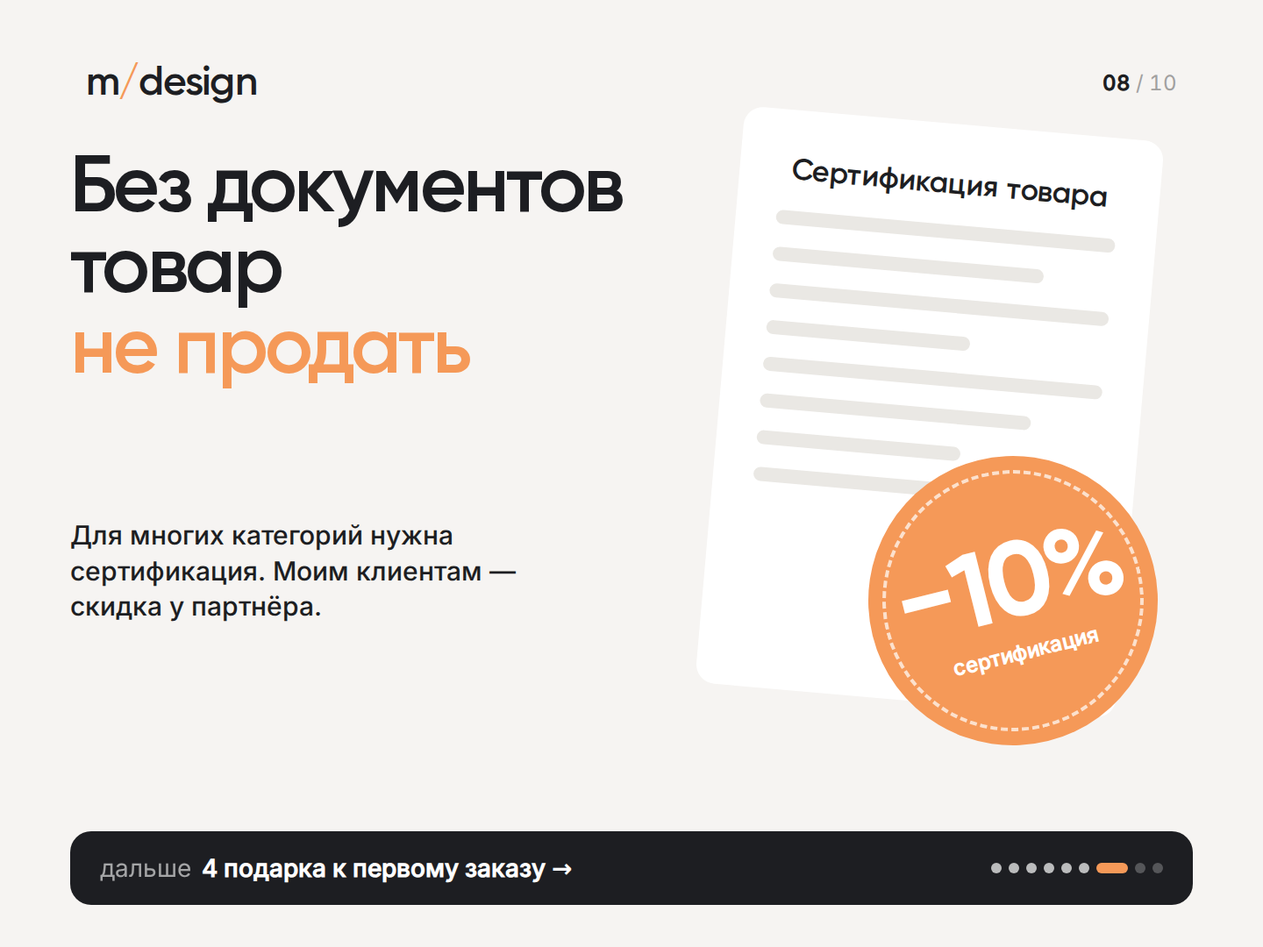
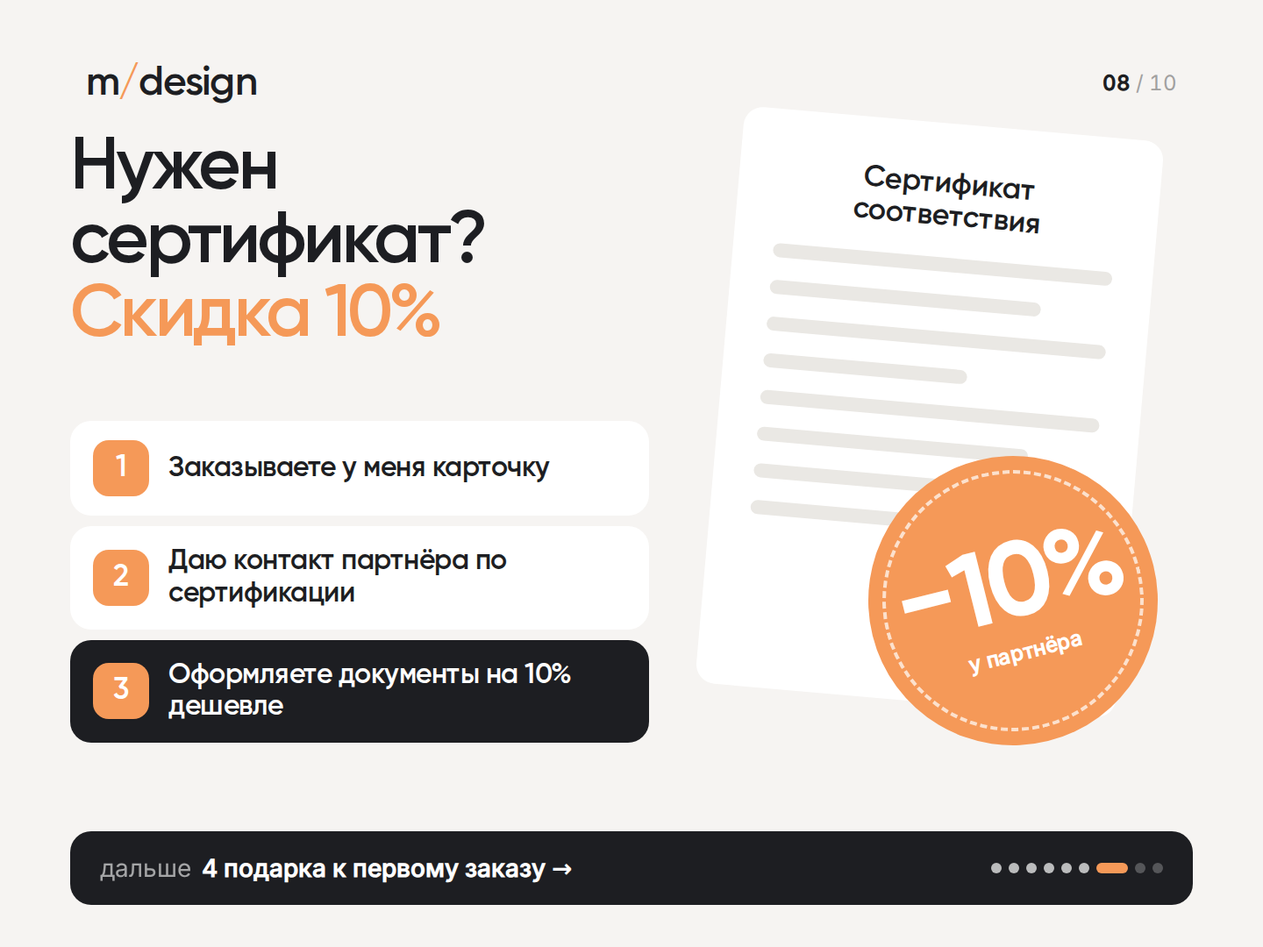
Воронка Авито: новые слайды 2, 3, 4, 6, 8 с понятными текстами
Claude-Session: https://claude.ai/code/session_01Ea7sNnJutX3PZfqWbVPvng

diff --git a/docs/mockups/avito-funnel-9-color.html b/docs/mockups/avito-funnel-9-color.html
@@ -481,6 +481,34 @@ body { background: var(--bg); color: var(--text); font: 400 15px/25px var(--f-bo
 .k10 .cw { background: var(--accent); color: var(--white); border-radius: 22px; padding: 22px 30px; font: 600 44px/1 var(--f-head); white-space: nowrap; }
 .k10 .cw span { display: block; font: 500 19px/1 var(--f-body); opacity: .85; margin-bottom: 10px; }
 .k10 .sb { margin-top: 16px; font: 500 28px/1.35 var(--f-body); color: var(--text); }
+/* v3 · 2 услуги */
+.k2 .pn { left: 110px; right: 110px; top: 150px; bottom: 128px; width: auto; height: auto; display: flex; flex-direction: column; justify-content: space-between; grid-template-columns: none; gap: 0; padding: 48px 52px; }
+.k2 .pn .H { font-size: 84px; align-self: auto; }
+.k2 .ln { display: inline-block; width: 150px; height: 12px; border-radius: 6px; background: var(--accent); vertical-align: middle; margin-right: 22px; transform: translateY(-12px); }
+.k2 .c3 { display: grid; grid-template-columns: repeat(3, 1fr); gap: 12px; }
+.k2 .c3 > div { border-radius: 26px; overflow: hidden; display: flex; flex-direction: column; }
+.k2 .c3 .t { border-radius: 0; }
+.k2 .c3 b { padding: 20px 22px 0; font: 600 38px/1 var(--f-head); letter-spacing: -1px; }
+.k2 .c3 span { padding: 8px 22px 22px; font: 500 21px/1.3 var(--f-body); }
+.k2 .x1 { background: var(--ink); color: var(--white); } .k2 .x1 span { color: var(--dark-text); }
+.k2 .x2 { background: var(--accent); color: var(--white); }
+.k2 .x3 { background: var(--white); color: var(--ink); } .k2 .x3 span { color: var(--text); }
+.k3 .c b { font-size: 32px; padding: 20px 18px 24px; }
+.k6 .col { min-height: 600px; justify-content: center; }
+/* v3 · 4 шаги */
+.k4 .H { width: auto; right: 80px; top: 160px; font-size: 84px; letter-spacing: -3.2px; }
+.k4 .s4 { position: absolute; left: 80px; right: 80px; top: 290px; display: grid; grid-template-columns: repeat(4, 1fr); gap: 12px; }
+.k4 .s4 > div { border-radius: 30px; padding: 30px; min-height: 600px; display: flex; flex-direction: column; justify-content: space-between; background: var(--ink); color: var(--white); }
+.k4 .s4 > div:nth-child(even) { background: var(--white); color: var(--ink); }
+.k4 .s4 b { font: 600 160px/.8 var(--f-head); letter-spacing: -6px; color: var(--accent); }
+.k4 .s4 h5 { font: 600 40px/1.08 var(--f-head); letter-spacing: -1px; }
+.k4 .s4 span { display: block; margin-top: 12px; font: 500 24px/1.2 var(--f-body); opacity: .7; }
+/* v3 · 8 сертификат */
+.k8 .H { top: 150px; width: 720px; font-size: 84px; }
+.k8 .s8 { position: absolute; left: 80px; top: 480px; width: 660px; display: flex; flex-direction: column; gap: 12px; }
+.k8 .s8 div { display: flex; align-items: center; gap: 22px; background: var(--white); border-radius: 24px; padding: 22px 26px; font: 600 32px/1.15 var(--f-head); letter-spacing: -.5px; color: var(--ink); }
+.k8 .s8 div:last-child { background: var(--ink); color: var(--white); }
+.k8 .s8 b { width: 64px; height: 64px; flex: none; border-radius: 18px; background: var(--accent); color: var(--white); display: grid; place-items: center; font: 600 34px/1 var(--f-head); }
 .sub2 { font: 400 28px/1.4 var(--f-body); color: var(--text); margin-top: 22px; }
 .sub2 b { color: var(--ink); font-weight: 500; }
 
@@ -490,27 +518,24 @@ body.export .grid { display: block; }
 body.export .frame { width: 1440px; height: 1080px; aspect-ratio: auto; border-radius: 0; }
 body.export .frame .ad { transform: none !important; }
 </style>
-<template id="n2"><div class="ad k k2"><div class="wall"></div><div class="pn"><div class="H">Ваша карточка <em>теряет деньги?</em></div>
-<div class="chk"><div>Понятно за секунду?</div><div>Не как у соседей?</div><div>Хочется нажать?</div></div></div><div class="hdr"><div class="logo">m<b>/</b>design</div><span class="cnt">02 <span>/ 10</span></span></div><div class="nxt"><span><i>дальше</i>узнайте свою ситуацию →</span><div class="dots"><i class="on"></i><i class=""></i><i class=""></i><i class=""></i><i class=""></i><i class=""></i><i class=""></i><i class=""></i><i class=""></i></div></div></div></template>
-<template id="n3"><div class="ad k k3"><div class="H">Узнаёте <em>себя?</em></div><div class="g6"><div class="c"><div class="t" style="width:196px;height:380px;background-size:1360px auto;background-position:-973px -44px;"></div><b>Только запускаюсь</b></div><div class="c"><div class="t" style="width:196px;height:380px;background-size:1360px auto;background-position:-157px 71px;"></div><b>Продажи просели</b></div><div class="c"><div class="t" style="width:196px;height:380px;background-size:1360px auto;background-position:-1007px -396px;"></div><b>Фото как у всех</b></div><div class="c"><div class="t" style="width:196px;height:380px;background-size:1360px auto;background-position:-710px -103px;"></div><b>Реклама дорожает</b></div><div class="c"><div class="t" style="width:196px;height:380px;background-size:1360px auto;background-position:-1032px -711px;"></div><b>Обжёгся с дизайнером</b></div><div class="c"><div class="t" style="width:196px;height:380px;background-size:1360px auto;background-position:-429px -65px;"></div><b>Много товаров</b></div></div><div class="hdr"><div class="logo">m<b>/</b>design</div><span class="cnt">03 <span>/ 10</span></span></div><div class="nxt"><span><i>дальше</i>куда уходят деньги →</span><div class="dots"><i class="done"></i><i class="on"></i><i class=""></i><i class=""></i><i class=""></i><i class=""></i><i class=""></i><i class=""></i><i class=""></i></div></div></div></template>
-<template id="n4"><div class="ad k k4 or"><div class="H">Платите за&nbsp;показы — <em>покупают у&nbsp;соседа</em></div>
-<p class="sub4">Если карточка не цепляет, рекламный бюджет уходит конкурентам.</p>
-<div class="bars"><div class="w" style="width:520px">Показы<span>вы платите</span></div><div style="width:430px">Клики<span>теряются здесь</span></div><div class="w" style="width:300px">Заказы</div></div><div class="hdr"><div class="logo">m<b>/</b>design</div><span class="cnt">04 <span>/ 10</span></span></div><div class="nxt"><span><i>дальше</i>почему фото поставщика не продаёт →</span><div class="dots"><i class="done"></i><i class="done"></i><i class="on"></i><i class=""></i><i class=""></i><i class=""></i><i class=""></i><i class=""></i><i class=""></i></div></div></div></template>
-<template id="n5"><div class="ad k k5"><div class="H">Фото как у всех = <em>выбор по цене</em></div><div class="gg"><div class="t" style="width:168px;height:250px;background-size:1088px auto;background-position:-120px 30px;"></div><div class="t" style="width:168px;height:250px;background-size:1088px auto;background-position:-548px 50px;"></div><div class="t" style="width:168px;height:250px;background-size:1088px auto;background-position:-562px -110px;"></div><div class="t" style="width:168px;height:250px;background-size:1088px auto;background-position:-950px 71px;"></div><div class="t" style="width:168px;height:250px;background-size:1088px auto;background-position:-800px -344px;"></div><div class="t" style="width:168px;height:250px;background-size:1088px auto;background-position:-338px -79px;"></div><div class="t" style="width:168px;height:250px;background-size:1088px auto;background-position:-963px -419px;"></div><div class="t" style="width:168px;height:250px;background-size:1088px auto;background-position:36px -133px;"></div><div class="t" style="width:168px;height:250px;background-size:1088px auto;background-position:-820px -596px;"></div><div class="t on" style="width:168px;height:250px;background-size:1088px auto;background-position:-773px -62px;"></div><div class="t" style="width:168px;height:250px;background-size:1088px auto;background-position:-120px 30px;"></div><div class="t" style="width:168px;height:250px;background-size:1088px auto;background-position:-562px -110px;"></div><div class="t" style="width:168px;height:250px;background-size:1088px auto;background-position:-548px 50px;"></div><div class="t" style="width:168px;height:250px;background-size:1088px auto;background-position:-800px -344px;"></div></div><span class="tag5" style="left:560px;top:850px">фото с ИИ — ваш товар заметят</span><div class="hdr"><div class="logo">m<b>/</b>design</div><span class="cnt">05 <span>/ 10</span></span></div><div class="nxt"><span><i>дальше</i>как я работаю →</span><div class="dots"><i class="done"></i><i class="done"></i><i class="done"></i><i class="on"></i><i class=""></i><i class=""></i><i class=""></i><i class=""></i><i class=""></i></div></div></div></template>
-<template id="n6"><div class="ad k k6 dk"><div class="H">Уже обжигались с&nbsp;<em>дизайнером?</em></div>
-<div class="two"><div class="col a"><h4>как бывает</h4><div>шаблон, как у всех</div><div>доплата за каждую правку</div><div>пропал после предоплаты</div><div>«так все делают»</div></div>
-<div class="col b"><h4>как у меня</h4><div>✓ сначала главный слайд</div><div>✓ правки 7 дней бесплатно</div><div>✓ на связи в одном чате</div><div>✓ студия не нужна</div></div></div><div class="hdr"><div class="logo">m<b>/</b>design</div><span class="cnt">06 <span>/ 10</span></span></div><div class="nxt"><span><i>дальше</i>как это выглядит →</span><div class="dots"><i class="done"></i><i class="done"></i><i class="done"></i><i class="done"></i><i class="on"></i><i class=""></i><i class=""></i><i class=""></i><i class=""></i></div></div></div></template>
-<template id="n7"><div class="ad k k7"><div class="H">Тот же товар. <em>Другая карточка.</em></div><div class="bf">ваше фото «до»</div><span class="bfl">было</span><div class="arr"></div><div class="af"><div class="t" style="width:600px;height:640px;background-size:2720px auto;background-position:-1842px -148px;"></div></div><span class="st">стало</span><div class="hdr"><div class="logo">m<b>/</b>design</div><span class="cnt">07 <span>/ 10</span></span></div><div class="nxt"><span><i>дальше</i>о чём молчат дизайнеры →</span><div class="dots"><i class="done"></i><i class="done"></i><i class="done"></i><i class="done"></i><i class="done"></i><i class="on"></i><i class=""></i><i class=""></i><i class=""></i></div></div></div></template>
-<template id="n8"><div class="ad k k8"><div class="H">Без документов товар <em>не&nbsp;продать</em></div>
-<p class="sub8">Для многих категорий нужна сертификация. Моим клиентам — скидка у партнёра.</p>
-<div class="doc"><div class="dh">Сертификация товара</div><i></i><i class="m"></i><i></i><i class="s"></i><i></i><i class="m"></i><i class="s"></i><i></i></div>
-<div class="stamp"><b>−10%</b><span>сертификация</span></div><div class="hdr"><div class="logo">m<b>/</b>design</div><span class="cnt">08 <span>/ 10</span></span></div><div class="nxt"><span><i>дальше</i>4 подарка к первому заказу →</span><div class="dots"><i class="done"></i><i class="done"></i><i class="done"></i><i class="done"></i><i class="done"></i><i class="done"></i><i class="on"></i><i class=""></i><i class=""></i></div></div></div></template>
+<template id="n2"><div class="ad k k2"><div class="wall"></div><div class="pn"><div class="H">Сделаю карточку<br><span class="ln"></span>для WB и Ozon</div><div class="c3"><div class="x1"><div class="t" style="width:362px;height:250px;background-size:1280px auto;background-position:-827px -95px;"></div><b>Инфографика</b><span>главный слайд и слайды с выгодами товара</span></div><div class="x2"><div class="t" style="width:362px;height:250px;background-size:1280px auto;background-position:-59px 13px;"></div><b>Фото с ИИ</b><span>модель, интерьер, сцена — без студии</span></div><div class="x3"><div class="t" style="width:362px;height:250px;background-size:1280px auto;background-position:125px -179px;"></div><b>Живая обложка</b><span>главный слайд в движении — в подарок</span></div></div></div><div class="hdr"><div class="logo">m<b>/</b>design</div><span class="cnt">02 <span>/ 10</span></span></div><div class="nxt"><span><i>дальше</i>для каких товаров →</span><div class="dots"><i class="on"></i><i class=""></i><i class=""></i><i class=""></i><i class=""></i><i class=""></i><i class=""></i><i class=""></i><i class=""></i></div></div></div></template>
+<template id="n3"><div class="ad k k3"><div class="H">Работаю с <em>любыми товарами</em></div><div class="g6"><div class="c"><div class="t" style="width:196px;height:540px;background-size:2080px auto;background-position:-1540px -88px;"></div><b>Одежда</b></div><div class="c"><div class="t" style="width:196px;height:540px;background-size:2080px auto;background-position:-1111px 127px;"></div><b>Обувь</b></div><div class="c"><div class="t" style="width:196px;height:540px;background-size:2080px auto;background-position:-1878px -237px;"></div><b>Для дома</b></div><div class="c"><div class="t" style="width:196px;height:540px;background-size:2080px auto;background-position:-1137px -178px;"></div><b>Техника</b></div><div class="c"><div class="t" style="width:196px;height:540px;background-size:2080px auto;background-position:7px -224px;"></div><b>Игрушки</b></div><div class="c"><div class="t" style="width:196px;height:540px;background-size:2080px auto;background-position:-6px -757px;"></div><b>Подарки</b></div></div><div class="hdr"><div class="logo">m<b>/</b>design</div><span class="cnt">03 <span>/ 10</span></span></div><div class="nxt"><span><i>дальше</i>как проходит работа →</span><div class="dots"><i class="done"></i><i class="on"></i><i class=""></i><i class=""></i><i class=""></i><i class=""></i><i class=""></i><i class=""></i><i class=""></i></div></div></div></template>
+<template id="n4"><div class="ad k k4 or"><div class="H">От фото до карточки — <em>4 шага</em></div><div class="s4"><div><b>1</b><div><h5>Пришлите фото товара</h5><span>можно с телефона</span></div></div><div><b>2</b><div><h5>Покажу главный слайд</h5><span>согласуем стиль</span></div></div><div><b>3</b><div><h5>Сделаю все слайды</h5><span>и фото с ИИ</span></div></div><div><b>4</b><div><h5>Правки 7 дней</h5><span>бесплатно</span></div></div></div><div class="hdr"><div class="logo">m<b>/</b>design</div><span class="cnt">04 <span>/ 10</span></span></div><div class="nxt"><span><i>дальше</i>почему фото решает →</span><div class="dots"><i class="done"></i><i class="done"></i><i class="on"></i><i class=""></i><i class=""></i><i class=""></i><i class=""></i><i class=""></i><i class=""></i></div></div></div></template>
+<template id="n5"><div class="ad k k5"><div class="H">Фото как у всех = <em>выбор по цене</em></div><div class="gg"><div class="t" style="width:168px;height:250px;background-size:1088px auto;background-position:-120px 30px;"></div><div class="t" style="width:168px;height:250px;background-size:1088px auto;background-position:-548px 50px;"></div><div class="t" style="width:168px;height:250px;background-size:1088px auto;background-position:-562px -110px;"></div><div class="t" style="width:168px;height:250px;background-size:1088px auto;background-position:-950px 71px;"></div><div class="t" style="width:168px;height:250px;background-size:1088px auto;background-position:-800px -344px;"></div><div class="t" style="width:168px;height:250px;background-size:1088px auto;background-position:-338px -79px;"></div><div class="t" style="width:168px;height:250px;background-size:1088px auto;background-position:-963px -419px;"></div><div class="t" style="width:168px;height:250px;background-size:1088px auto;background-position:36px -133px;"></div><div class="t" style="width:168px;height:250px;background-size:1088px auto;background-position:-820px -596px;"></div><div class="t on" style="width:168px;height:250px;background-size:1088px auto;background-position:-773px -62px;"></div><div class="t" style="width:168px;height:250px;background-size:1088px auto;background-position:-120px 30px;"></div><div class="t" style="width:168px;height:250px;background-size:1088px auto;background-position:-562px -110px;"></div><div class="t" style="width:168px;height:250px;background-size:1088px auto;background-position:-548px 50px;"></div><div class="t" style="width:168px;height:250px;background-size:1088px auto;background-position:-800px -344px;"></div></div><span class="tag5" style="left:560px;top:850px">фото с ИИ — ваш товар заметят</span><div class="hdr"><div class="logo">m<b>/</b>design</div><span class="cnt">05 <span>/ 10</span></span></div><div class="nxt"><span><i>дальше</i>фото без студии →</span><div class="dots"><i class="done"></i><i class="done"></i><i class="done"></i><i class="on"></i><i class=""></i><i class=""></i><i class=""></i><i class=""></i><i class=""></i></div></div></div></template>
+<template id="n6"><div class="ad k k6 dk"><div class="H">Фото с ИИ — <em>без фотосессии</em></div>
+<div class="two"><div class="col a"><h4>обычная съёмка</h4><div>студия и фотограф</div><div>модель и стилист</div><div>[N] дней ожидания</div><div>от [цена] ₽</div></div>
+<div class="col b"><h4>фото с ИИ</h4><div>✓ нужен только товар</div><div>✓ любая модель и сцена</div><div>✓ готово за [N] дня</div><div>✓ от [цена] ₽</div></div></div><div class="hdr"><div class="logo">m<b>/</b>design</div><span class="cnt">06 <span>/ 10</span></span></div><div class="nxt"><span><i>дальше</i>было → стало →</span><div class="dots"><i class="done"></i><i class="done"></i><i class="done"></i><i class="done"></i><i class="on"></i><i class=""></i><i class=""></i><i class=""></i><i class=""></i></div></div></div></template>
+<template id="n7"><div class="ad k k7"><div class="H">Тот же товар. <em>Другая карточка.</em></div><div class="bf">ваше фото «до»</div><span class="bfl">было</span><div class="arr"></div><div class="af"><div class="t" style="width:600px;height:640px;background-size:2720px auto;background-position:-1842px -148px;"></div></div><span class="st">стало</span><div class="hdr"><div class="logo">m<b>/</b>design</div><span class="cnt">07 <span>/ 10</span></span></div><div class="nxt"><span><i>дальше</i>документы для товара →</span><div class="dots"><i class="done"></i><i class="done"></i><i class="done"></i><i class="done"></i><i class="done"></i><i class="on"></i><i class=""></i><i class=""></i><i class=""></i></div></div></div></template>
+<template id="n8"><div class="ad k k8"><div class="H">Нужен сертификат?<br><em>Скидка 10%</em></div>
+<div class="s8"><div><b>1</b>Заказываете у меня карточку</div><div><b>2</b>Даю контакт партнёра по сертификации</div><div><b>3</b>Оформляете документы на 10% дешевле</div></div>
+<div class="doc"><div class="dh">Сертификат соответствия</div><i></i><i class="m"></i><i></i><i class="s"></i><i></i><i class="m"></i><i class="s"></i><i></i></div>
+<div class="stamp"><b>−10%</b><span>у партнёра</span></div><div class="hdr"><div class="logo">m<b>/</b>design</div><span class="cnt">08 <span>/ 10</span></span></div><div class="nxt"><span><i>дальше</i>4 подарка к первому заказу →</span><div class="dots"><i class="done"></i><i class="done"></i><i class="done"></i><i class="done"></i><i class="done"></i><i class="done"></i><i class="on"></i><i class=""></i><i class=""></i></div></div></div></template>
 <template id="n9"><div class="ad k k9"><div class="wall"></div><div class="pn"><div class="H">Один заказ —<br><span class="ln"></span>четыре выгоды</div>
 <div class="c4"><div class="x1"><b>−20%</b><span>первые 3 заказа</span></div><div class="x2"><b>7</b><span>дней правок бесплатно</span></div><div class="x3"><b>0 ₽</b><span>живая обложка</span></div><div class="x4"><b>−10%</b><span>сертификация</span></div></div></div><div class="hdr"><div class="logo">m<b>/</b>design</div><span class="cnt">09 <span>/ 10</span></span></div><div class="nxt"><span><i>дальше</i>как начать →</span><div class="dots"><i class="done"></i><i class="done"></i><i class="done"></i><i class="done"></i><i class="done"></i><i class="done"></i><i class="done"></i><i class="on"></i><i class=""></i></div></div></div></template>
 <template id="n10"><div class="ad k k10"><div class="wall"></div><div class="pn"><div class="H">Пришлите фото —<br><span class="ln"></span>разберу бесплатно</div>
 <p class="sb">Скажу, что мешает продавать. Срок акции ограничен.</p>
[1 lines of base64/hex data omitted]
-<div class="wrap"><header class="head"><h1>Воронка · цветная версия</h1><p>Меньше текста, больше цвета: работы на каждом слайде, чередование светлых, тёмных и оранжевых слайдов, короткие заголовки.</p></header><div class="feed"><div class="it"><div class="ph" data-c="n2"></div>2 · Самопроверка</div><div class="it"><div class="ph" data-c="n3"></div>3 · Узнаёте себя?</div><div class="it"><div class="ph" data-c="n4"></div>4 · Деньги (оранжевый)</div><div class="it"><div class="ph" data-c="n5"></div>5 · Фото как у всех</div><div class="it"><div class="ph" data-c="n6"></div>6 · Обжёгся (тёмный)</div><div class="it"><div class="ph" data-c="n7"></div>7 · Было → стало</div><div class="it"><div class="ph" data-c="n8"></div>8 · Документы</div><div class="it"><div class="ph" data-c="n9"></div>9 · Четыре выгоды</div><div class="it"><div class="ph" data-c="n10"></div>10 · Бесплатный разбор</div></div><div class="grid"><figure class="item"><div class="frame" data-c="n2"></div><figcaption class="cap">2 · Самопроверка <span>фото 2</span></figcaption></figure><figure class="item"><div class="frame" data-c="n3"></div><figcaption class="cap">3 · Узнаёте себя? <span>фото 3</span></figcaption></figure><figure class="item"><div class="frame" data-c="n4"></div><figcaption class="cap">4 · Деньги (оранжевый) <span>фото 4</span></figcaption></figure><figure class="item"><div class="frame" data-c="n5"></div><figcaption class="cap">5 · Фото как у всех <span>фото 5</span></figcaption></figure><figure class="item"><div class="frame" data-c="n6"></div><figcaption class="cap">6 · Обжёгся (тёмный) <span>фото 6</span></figcaption></figure><figure class="item"><div class="frame" data-c="n7"></div><figcaption class="cap">7 · Было → стало <span>фото 7</span></figcaption></figure><figure class="item"><div class="frame" data-c="n8"></div><figcaption class="cap">8 · Документы <span>фото 8</span></figcaption></figure><figure class="item"><div class="frame" data-c="n9"></div><figcaption class="cap">9 · Четыре выгоды <span>фото 9</span></figcaption></figure><figure class="item"><div class="frame" data-c="n10"></div><figcaption class="cap">10 · Бесплатный разбор <span>фото 10</span></figcaption></figure></div></div><script>
+<div class="wrap"><header class="head"><h1>Воронка · цветная версия</h1><p>Меньше текста, больше цвета: работы на каждом слайде, чередование светлых, тёмных и оранжевых слайдов, короткие заголовки.</p></header><div class="feed"><div class="it"><div class="ph" data-c="n2"></div>2 · Что я делаю</div><div class="it"><div class="ph" data-c="n3"></div>3 · Любые товары</div><div class="it"><div class="ph" data-c="n4"></div>4 · 4 шага (оранжевый)</div><div class="it"><div class="ph" data-c="n5"></div>5 · Фото как у всех</div><div class="it"><div class="ph" data-c="n6"></div>6 · ИИ вместо съёмки (тёмный)</div><div class="it"><div class="ph" data-c="n7"></div>7 · Было → стало</div><div class="it"><div class="ph" data-c="n8"></div>8 · Сертификат −10%</div><div class="it"><div class="ph" data-c="n9"></div>9 · Четыре выгоды</div><div class="it"><div class="ph" data-c="n10"></div>10 · Бесплатный разбор</div></div><div class="grid"><figure class="item"><div class="frame" data-c="n2"></div><figcaption class="cap">2 · Что я делаю <span>фото 2</span></figcaption></figure><figure class="item"><div class="frame" data-c="n3"></div><figcaption class="cap">3 · Любые товары <span>фото 3</span></figcaption></figure><figure class="item"><div class="frame" data-c="n4"></div><figcaption class="cap">4 · 4 шага (оранжевый) <span>фото 4</span></figcaption></figure><figure class="item"><div class="frame" data-c="n5"></div><figcaption class="cap">5 · Фото как у всех <span>фото 5</span></figcaption></figure><figure class="item"><div class="frame" data-c="n6"></div><figcaption class="cap">6 · ИИ вместо съёмки (тёмный) <span>фото 6</span></figcaption></figure><figure class="item"><div class="frame" data-c="n7"></div><figcaption class="cap">7 · Было → стало <span>фото 7</span></figcaption></figure><figure class="item"><div class="frame" data-c="n8"></div><figcaption class="cap">8 · Сертификат −10% <span>фото 8</span></figcaption></figure><figure class="item"><div class="frame" data-c="n9"></div><figcaption class="cap">9 · Четыре выгоды <span>фото 9</span></figcaption></figure><figure class="item"><div class="frame" data-c="n10"></div><figcaption class="cap">10 · Бесплатный разбор <span>фото 10</span></figcaption></figure></div></div><script>
 (() => {
   document.querySelectorAll('[data-c]').forEach(el => el.appendChild(document.getElementById(el.dataset.c).content.cloneNode(true)));
   if (location.hash === '#export') { document.body.classList.add('export'); return; }
